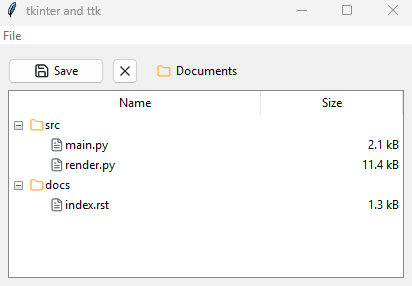
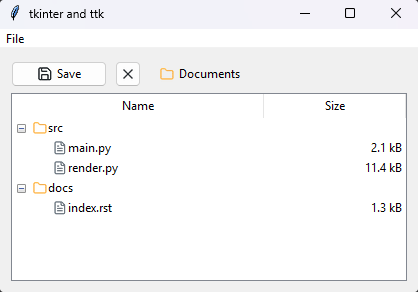
Trim only the frame line, and let the CSS round the corners
The previous commit trimmed five pixels a side to chase desktop out of the rounded corners, which was the wrong job to be doing twice: .window-screenshot already rounds the image at 6px, and that clips exactly the region the desktop shows through. Trimming far enough to remove the arcs bought nothing and ate five pixels off the title bar.

Two pixels now, enough to drop the frame line DWM includes. Checked by applying the CSS radius to the capture as a mask and looking at each corner at 6x: everything the browser will show is window content, and the desktop that remains falls inside what gets clipped.

diff --git a/.github/scripts/capture_screenshots.py b/.github/scripts/capture_screenshots.py
@@ -42,13 +42,13 @@ TEAL = "#0F766E"
 #: library whose whole subject is rendering.
 SETTLE_SECONDS = 0.6
 
-#: Trimmed from every edge of the grab. Windows 11 rounds a window's corners at
-#: roughly eight pixels, and the frame rectangle is square, so the corners of a
-#: raw capture contain whatever was on the desktop behind them. Trimming takes
-#: the frame line and the arcs with it; `.window-screenshot` in the docs then
-#: draws a clean border and rounds the result again, which is the same division
-#: of labour bootstack uses.
-FRAME_TRIM = 5
+#: Trimmed from every edge of the grab, to drop the frame line DWM includes.
+#: Deliberately small. Windows 11 rounds a window's corners while the rectangle
+#: DWM reports is square, so a raw capture holds a little desktop in each
+#: corner — but `.window-screenshot` in the docs rounds the image at 6px, which
+#: clips exactly that region, so there is nothing here to chase. Trimming far
+#: enough to remove the arcs would eat into the title bar for no gain.
+FRAME_TRIM = 2
 
 
 def make_dpi_aware() -> None:
